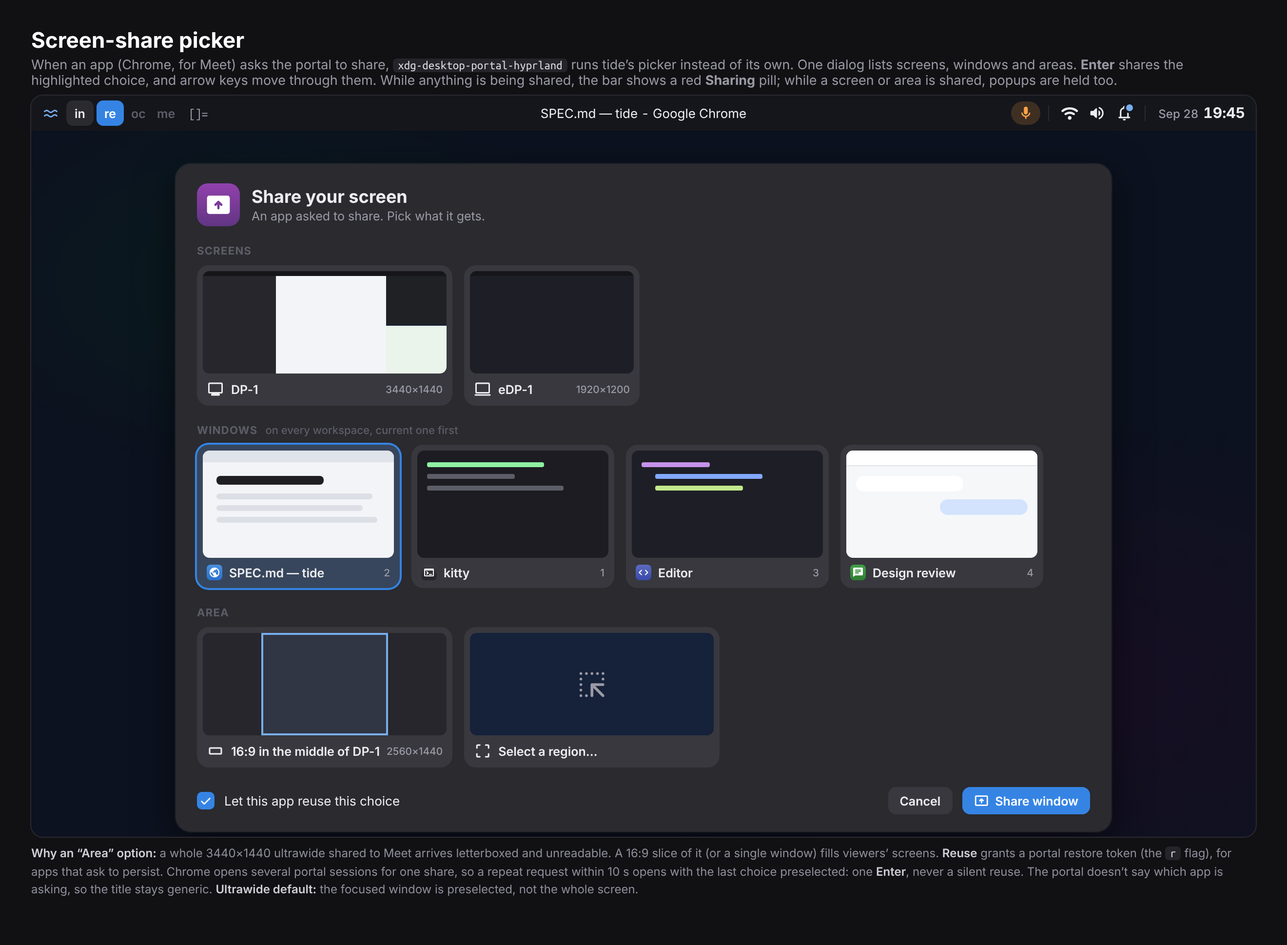
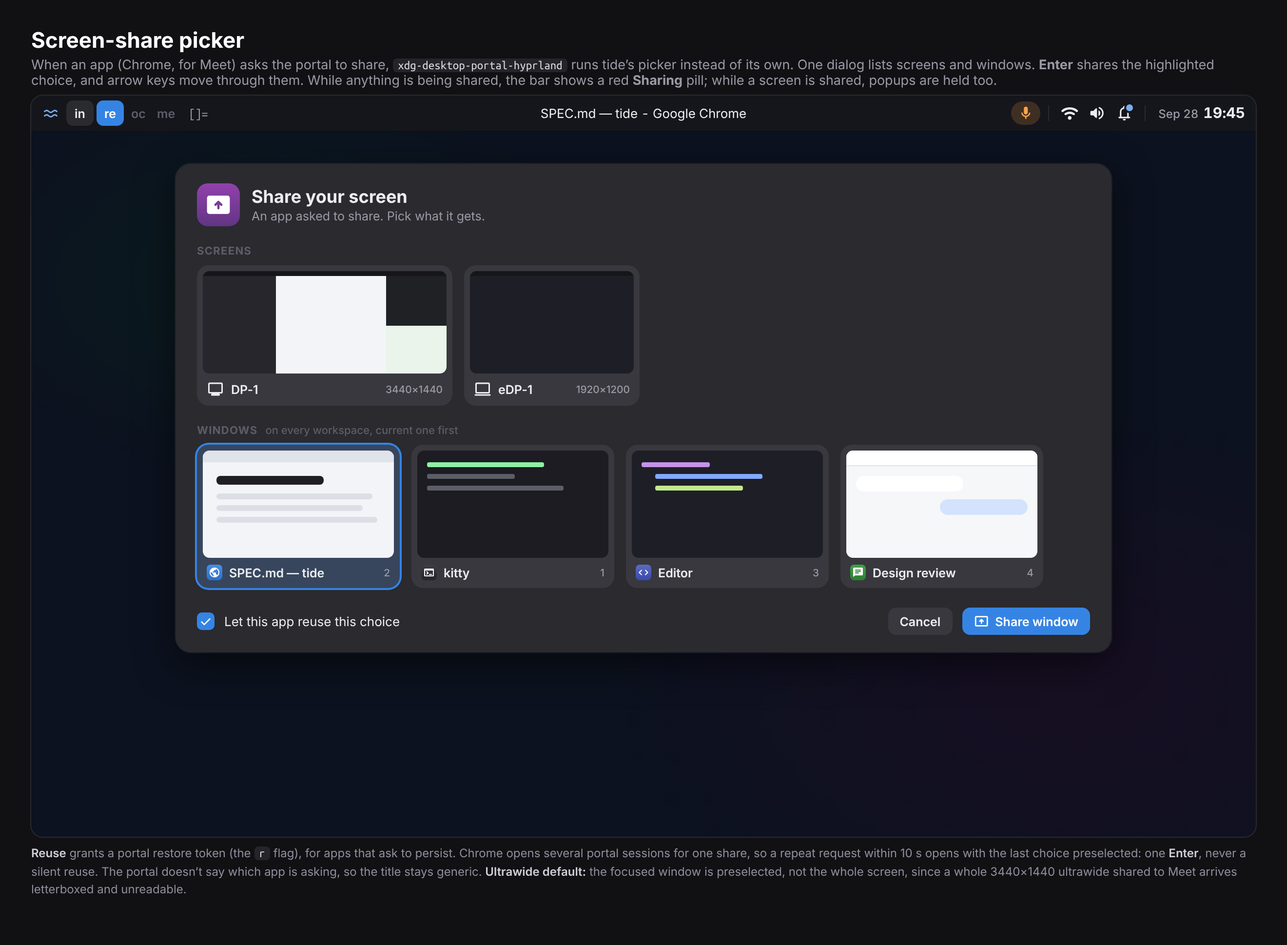
Drop the share picker's 16:9 area: share a window or a whole screen
The picker offered a 16:9 slice of each monitor wider than that, beside
its screens and windows. A window or a whole screen is all a share
needs, so the Area section goes, and with it the region answer
tide-share-picker passed on and the Sharing pill's "Area" row. On an
ultrawide the picker still opens on the focused window, since a whole
one arrives letterboxed. SPEC.md, TODO.md, docs/compositor.md and the
mock say the same.

Claude-Session: https://claude.ai/code/session_016zevajsxcL4rDwGX2uuobh

Changed region(s): [[0.0311, 0.6192, 0.9629, 0.9598], [0.0311, 0.0619, 0.9318, 0.0929]]

diff --git a/shell/SharePicker.qml b/shell/SharePicker.qml
@@ -9,9 +9,8 @@ import "lib/workspaces.mjs" as Ws
 
 // The screen-share picker (SPEC.md §12, docs/mocks/share-picker.png), for
 // `tide-share-picker`, which xdph runs when an app asks to share. It
-// offers each screen, each window xdph can share, and a 16:9 area of each
-// monitor wider than that, centered on the focused monitor over a dimmed
-// backdrop like the launcher. The arrow keys move through the options,
+// offers each screen and each window xdph can share, centered on the
+// focused monitor over a dimmed backdrop like the launcher. The arrow keys move through the options,
 // Enter or a double-click shares the highlighted one, and Escape or Cancel
 // says no. The answer goes back on the pipe the picker named.
 PanelWindow {
@@ -63,7 +62,7 @@ PanelWindow {
         const windows = Compositor.tidewm ? Picker.namedWindows(Picker.parseWindows(list), Compositor.windows) : Picker.parseWindows(list);
         const current = Compositor.tidewm ? (Compositor.tidewmListed.find(w => w?.focused === true)?.id ?? null)
             : (Hyprland.focusedMonitor?.activeWorkspace?.id ?? null);
-        const opts = Picker.options(screens, windows, workspaceOf, current, offered === "*");
+        const opts = Picker.options(screens, windows, workspaceOf, current);
         root.opts = opts;
         root.reuse = allowToken;
         root.selected = Picker.preselect(opts, {
@@ -142,7 +141,7 @@ PanelWindow {
     // `qs -c tide ipc call sharepicker pick REPLY ALLOW LIST SCREENS` opens
     // it for tide-share-picker, which waits on REPLY; SCREENS is "*" for
     // xdph's every screen, or xdg-desktop-portal-wlr's outputs, a name a
-    // line (Picker.offeredScreens), whose regions it can't share; `... cancel REPLY` closes it
+    // line (Picker.offeredScreens); `... cancel REPLY` closes it
     // with no, if REPLY is still the open request's.
     IpcHandler {
         target: "sharepicker"
@@ -289,10 +288,6 @@ PanelWindow {
                             kind: "window",
                             title: "Windows",
                             note: "on every workspace, current one first"
-                        }, {
-                            kind: "region",
-                            title: "Area",
-                            note: ""
                         }]
 
                     Column {
@@ -381,20 +376,6 @@ PanelWindow {
                                             captureSource: tile.shot
                                             live: tile.option.kind !== "window" && root.visible
                                             constraintSize: Qt.size(thumb.width, thumb.height)
-                                        }
-
-                                        // The area's outline over its monitor.
-                                        Rectangle {
-                                            readonly property real k: view.width / Math.max(1, Quickshell.screens.find(s => s.name === tile.option.screen)?.width ?? 1)
-
-                                            visible: tile.option.kind === "region" && view.hasContent && view.sourceSize.width > 0
-                                            x: view.x + (tile.option.area?.x ?? 0) * k
-                                            y: view.y + (tile.option.area?.y ?? 0) * k
-                                            width: (tile.option.area?.w ?? 0) * k
-                                            height: (tile.option.area?.h ?? 0) * k
-                                            color: "transparent"
-                                            border.width: 2
-                                            border.color: Theme.accent
                                         }
 
                                         IconImage {

diff --git a/docs/mocks/share-picker.html b/docs/mocks/share-picker.html
@@ -39,7 +39,7 @@
 <body class="sheet" data-width="1320" data-scale="2">
 
 <h1>Screen-share picker</h1>
-<p class="lede">When an app (Chrome, for Meet) asks the portal to share, <code>xdg-desktop-portal-hyprland</code> runs tide’s picker instead of its own. One dialog lists screens, windows and areas. <b>Enter</b> shares the highlighted choice, and arrow keys move through them. While anything is being shared, the bar shows a red <b>Sharing</b> pill; while a screen or area is shared, popups are held too.</p>
+<p class="lede">When an app (Chrome, for Meet) asks the portal to share, <code>xdg-desktop-portal-hyprland</code> runs tide’s picker instead of its own. One dialog lists screens and windows. <b>Enter</b> shares the highlighted choice, and arrow keys move through them. While anything is being shared, the bar shows a red <b>Sharing</b> pill; while a screen is shared, popups are held too.</p>
 
 <div class="stage theme-dark">
   <div class="bar">
@@ -130,23 +130,6 @@
       </div>
     </div>
 
-    <div class="sec">Area</div>
-    <div class="opts">
-      <div class="opt">
-        <div class="th" style="width:250px;height:105px">
-          <div class="w" style="left:0;top:0;right:0;bottom:0;background:#26262c"></div>
-          <div class="w" style="left:24%;top:0;width:52%;bottom:0;box-shadow:0 0 0 2px #78aeed inset;background:rgba(120,174,237,.12)"></div>
-        </div>
-        <div class="lb"><i class="ms">crop_16_9</i>16:9 in the middle of DP-1<small>2560×1440</small></div>
-      </div>
-      <div class="opt">
-        <div class="th" style="width:250px;height:105px;display:flex;align-items:center;justify-content:center;color:var(--fg-dim)">
-          <i class="ms" style="font-size:34px">highlight_alt</i>
-        </div>
-        <div class="lb"><i class="ms">crop_free</i>Select a region…</div>
-      </div>
-    </div>
-
     <div class="foot">
       <span class="chk"><i class="ms">check</i></span><span>Let this app reuse this choice</span>
       <span class="sp"></span>
@@ -155,7 +138,7 @@
     </div>
   </div>
 </div>
-<p class="note"><b>Why an “Area” option:</b> a whole 3440×1440 ultrawide shared to Meet arrives letterboxed and unreadable. A 16:9 slice of it (or a single window) fills viewers’ screens. <b>Reuse</b> grants a portal restore token (the <code>r</code> flag), for apps that ask to persist. Chrome opens several portal sessions for one share, so a repeat request within 10&nbsp;s opens with the last choice preselected: one <b>Enter</b>, never a silent reuse. The portal doesn’t say which app is asking, so the title stays generic. <b>Ultrawide default:</b> the focused window is preselected, not the whole screen.</p>
+<p class="note"><b>Reuse</b> grants a portal restore token (the <code>r</code> flag), for apps that ask to persist. Chrome opens several portal sessions for one share, so a repeat request within 10&nbsp;s opens with the last choice preselected: one <b>Enter</b>, never a silent reuse. The portal doesn’t say which app is asking, so the title stays generic. <b>Ultrawide default:</b> the focused window is preselected, not the whole screen, since a whole 3440×1440 ultrawide shared to Meet arrives letterboxed and unreadable.</p>
 
 </body>
 </html>

diff --git a/shell/ShareData.qml b/shell/ShareData.qml
@@ -7,8 +7,8 @@ import "lib/share.mjs" as Share
 
 // Whether a screen share is live (SPEC.md §12): an xdph screencast stream
 // with something consuming it, from PipeWire rather than Hyprland's
-// screencast>> event, which fires for any screencopy. While a screen or
-// area is shared, popups are held (§9), and the notification center counts
+// screencast>> event, which fires for any screencopy. While a screen is
+// shared, popups are held (§9), and the notification center counts
 // them; a window share, known from the share picker's choice, holds none.
 Singleton {
     id: root
@@ -46,8 +46,8 @@ Singleton {
     // Streams already there at startup have no choice to pair with.
     Component.onCompleted: root.apply(Share.nodesSeen(root.pairing, root.shareNodes, Date.now()))
 
-    // The share picker's choice: "screen", "window" or "region", and the
-    // option's label.
+    // The share picker's choice: "screen" or "window", and the option's
+    // label.
     function chose(kind, label) {
         root.apply(Share.chose(root.pairing, kind, Date.now(), label));
     }

diff --git a/SPEC.md b/SPEC.md
@@ -72,7 +72,7 @@ Contents:
 - A screensaver/idle policy, and a lock screen that is the **same screen as
   the login screen**, showing the short hostname.
 - **Google Meet screen sharing** that works in Chrome, including sharing a
-  single window or a 16:9 slice of an ultrawide.
+  single window or a whole screen.
 - Screenshots of a window, a screen or a region.
 - A session that starts **exactly one of each thing** and nothing twice.
 
@@ -128,7 +128,7 @@ mock's half-pixel size is rounded up: 12.5px is 13.
 | **Settings**: the sidebar grouped under Hardware, Windows and General, Keyboard with its shortcuts, and the newer pages: Start at login, Notifications, Clipboard, Power and Workspaces. [`settings.png`](docs/mocks/settings.png) | ![settings](docs/mocks/settings.png) |
 | **System monitor popover**: the CPU and Memory tabs, and throttling. [`sysmon.png`](docs/mocks/sysmon.png) | ![system monitor](docs/mocks/sysmon.png) |
 | **Login and lock**: greeter, lock, failure, screensaver. [`lock.png`](docs/mocks/lock.png) | ![lock](docs/mocks/lock.png) |
-| **Screen-share picker**: screens, windows, 16:9 area. [`share-picker.png`](docs/mocks/share-picker.png) | ![share picker](docs/mocks/share-picker.png) |
+| **Screen-share picker**: screens and windows. [`share-picker.png`](docs/mocks/share-picker.png) | ![share picker](docs/mocks/share-picker.png) |
 | **Picker**: `Super+V`'s Clipboard tab, and its Characters tab searched by name. [`picker.png`](docs/mocks/picker.png) | ![picker](docs/mocks/picker.png) |
 | **Screenshots**: region and window modes. [`screenshot.png`](docs/mocks/screenshot.png) | ![screenshot](docs/mocks/screenshot.png) |
 | **Minimized windows**: the five ways to show them that were weighed; C, the corner tray, was chosen (§6.7). Its bars still show the chips' old app icons. [`minimized.png`](docs/mocks/minimized.png) | ![minimized windows](docs/mocks/minimized.png) |
@@ -155,8 +155,8 @@ mock's half-pixel size is rounded up: 12.5px is 13.
   with no C++ plugin to rebuild. One Lua layout covers all four modes,
   including the one Hyprland lacks (two columns + stack), and the
   single-window width rule.
-- `xdg-desktop-portal-hyprland` shares single windows and regions, and it
-  accepts a custom picker.
+- `xdg-desktop-portal-hyprland` shares single windows and whole screens,
+  and it accepts a custom picker.
 - Its IPC reports urgency.
 - The existing config in `conf` is a head start.
 
@@ -2057,7 +2057,7 @@ See [`bar.png`](docs/mocks/bar.png).
 | Icon | Shows | Click | Scroll / other |
 |---|---|---|---|
 | **Presenting** (accent) | presenter mode is on (§10) | turns presenter mode off | hover: "Presenting: Do not disturb and keep awake", as tilemo's |
-| Privacy: **Sharing** (red) | an xdph PipeWire screencast stream has a consumer (§12) | what is being shared (screen, window or area), and the app reading it; stop it from the app | — |
+| Privacy: **Sharing** (red) | an xdph PipeWire screencast stream has a consumer (§12) | what is being shared (screen or window), and the app reading it; stop it from the app | — |
 | Privacy: mic (orange) | any app is capturing the microphone; the mic slashed while every mic being recorded from is muted (`Super+Shift+M` mutes them all), so a headset an app picked still shows live | per-app list with mute | hover: "Mic on" or "Mic off", as the OSD says, and how many apps are recording |
 | Tray items | SNI icons from apps | the app's menu (DBusMenu) | as the app defines |
 | Keyboard layout | up to three letters of the main keyboard's layout (US, DVO, GER), as tilemo's; only once there are two layouts | the next layout, as `Super+Alt+Space` (§16) | hover: the layout's full name |
@@ -2746,7 +2746,7 @@ See [`notifications.png`](docs/mocks/notifications.png).
     window has it on. That state is kept across config reloads, as Do not
     disturb is.
 - **Presenter mode** (`Super+P`, §10) holds it on along with keep awake.
-- **Automatic while sharing a screen or region:** popups are held and counted
+- **Automatic while sharing a screen:** popups are held and counted
   in the "held while you were sharing" banner.
   - A **window** share holds nothing, since popups aren't in that stream.
   - Popup surfaces also carry Hyprland's `no_screen_share` layer rule, so
@@ -3272,9 +3272,8 @@ See [`share-picker.png`](docs/mocks/share-picker.png).
   - It asks the running shell (`qs ipc`) to show the dialog, and waits on a
     pipe in `$XDG_RUNTIME_DIR` for the answer, since the IPC call returns
     first. After 5 minutes with no answer it closes the dialog and cancels.
-  - It prints one line: `[SELECTION]<flags>/screen:<output>`,
-    `…/window:<id>`, or `…/region:<output>@<x>,<y>,<w>,<h>`. No
-    `[SELECTION]` means cancel.
+  - It prints one line: `[SELECTION]<flags>/screen:<output>` or
+    `…/window:<id>`. No `[SELECTION]` means cancel.
   - With no tide shell running, as in a plain Hyprland login with the same
     `xdph.conf`, it runs xdph's own `hyprland-share-picker` if that's
     installed, so a share still works.
@@ -3289,16 +3288,12 @@ See [`share-picker.png`](docs/mocks/share-picker.png).
     and the focused one. It has no thumbnail there, which needs Hyprland's
     toplevels. It
     offers only the outputs xdpw listed, none for a request for windows
-    alone. xdpw shares no regions, so there's no 16:9 slice there, and its
-    own restore tokens stand in for the reuse box.
+    alone. xdpw's own restore tokens stand in for the reuse box.
 
   The dialog offers:
   - **Screens:** each output, with a live `ScreencopyView` thumbnail.
   - **Windows:** every window, current workspace first, each with a
     thumbnail.
-  - **Area:** a **16:9 slice** centered on each monitor wider than that, in
-    its logical pixels. For 3440×1440 at scale 1 that is
-    `region:DP-1@440,0,2560,1440`.
   - **Default on an ultrawide** (2:1 or wider): the focused window, since a
     whole 3440×1440 screen arrives letterboxed and unreadable in Meet.
     Elsewhere it's the focused monitor.
@@ -3330,8 +3325,8 @@ See [`share-picker.png`](docs/mocks/share-picker.png).
   - The **Sharing** pill is driven by PipeWire instead: an
     `xdph-streaming-*` video source with a running consumer.
   - The `screencast>>` event serves only as a prompt to re-check.
-- **Knowing what is shared.** Popups are held for a screen or region share
-  but not a window share (§9), so the shell needs the source type.
+- **Knowing what is shared.** Popups are held for a screen share but not a
+  window share (§9), so the shell needs the source type.
   - The picker's dialog is the shell's own, so the shell keeps each choice
     it shares, once `tide-share-picker` has the answer: one that never
     reached xdph has no stream.
@@ -3379,8 +3374,8 @@ See [`share-picker.png`](docs/mocks/share-picker.png).
     PipeWire, so there is nothing reliable to watch.
 - **While sharing:**
   - the bar shows the red **Sharing** pill;
-  - popups are held while a screen or region is shared, and not during a
-    window share, which can't show them (§9);
+  - popups are held while a screen is shared, and not during a window
+    share, which can't show them (§9);
   - popups, the notification center and the launcher carry
     `no_screen_share`, so if one does appear, the stream shows black there
     instead of its content;
@@ -4802,7 +4797,7 @@ light/dark switch.
 | Tray icon missing | an app started before the tray watcher | the shell (the watcher) is ordered before autostart |
 | `Super` tap misfires | the launcher opens after every `Super+<key>` on Hyprland 0.56.x | `conf` binds the tap only from Hyprland 0.57, which has the keybind fix; `Super+Space` before (§8) |
 | Dark-on-dark focus hard to see | can't tell which terminal is focused | dim strength is a setting; 0.1 is the next step |
-| Sharing an ultrawide | viewers get a letterboxed strip | the 16:9 area and window-first default in the picker |
+| Sharing an ultrawide | viewers get a letterboxed strip | the window-first default in the picker |
 | "Show in folder" opens the wrong file manager | Dolphin and Nautilus both claim `FileManager1` | a user-level activation file → a session-bound unit with a desktop-aware launcher: Nautilus in tide, Dolphin in Plasma, one session at a time; `doctor` checks (§16.2) |
 | `Terminal=true` apps open in Konsole | GLib's terminal list lacks kitty | `xdg-terminal-exec` with kitty listed first (§16.2) |
 | CLDR zone names | `GMT+1` instead of `BST` | place labels on the bar; tzdata abbreviations wherever an abbreviation shows (§7.3) |
@@ -4828,9 +4823,9 @@ are what "done" means.
 | **M1** | This spec + mocks | agreed; open questions answered |
 | **M2** | Session skeleton + layouts | `setup` installs a session selectable from the current display manager. `doctor` reports no duplicate owners. All four layouts and the single-window rule work per workspace on an ultrawide and on the laptop panel. The focus guard follows §14.1, including each case in §14.2. The Hyprland config is Lua and CI-loaded. Shell memory is measured. |
 | **M3** | Bar + launcher | the bar shows every state in `bar.png` from live data: tray menus, clocks with correct labels and popover abbreviations across a DST fixture, urgency end to end from a kitty bell and from a Chat notification. `Super+Space` opens the launcher (tap-`Super` too, from Hyprland 0.57), and fuzzy search and quick actions work. |
-| **M4** | Notifications, OSD, screenshots | notifications and history survive a shell restart. DND is automatic while sharing a screen or region, and off for a window share. The OSD works. The screen and window screenshots work, including "the window before the launcher"; the frozen region mode follows after the MVP. |
+| **M4** | Notifications, OSD, screenshots | notifications and history survive a shell restart. DND is automatic while sharing a screen, and off for a window share. The OSD works. The screen and window screenshots work, including "the window before the launcher"; the frozen region mode follows after the MVP. |
 | **M5** | Idle, lock, login | the idle timeline works, including through a Meet call. Lock via key, idle, suspend and lid. Crash recovery is tested. The greetd greeter shares the lock component. The keyring unlocks at login. The old sway, waybar, swaync, fuzzel and hyprlock configs are deleted from `conf`. |
-| **M6** | Screen sharing | a Meet share of a window, a 16:9 area and a whole screen, from Chrome; restore tokens where Chrome asks for them; the privacy pill and mic mute. |
+| **M6** | Screen sharing | a Meet share of a window and a whole screen, from Chrome; restore tokens where Chrome asks for them; the privacy pill and mic mute. |
 | **M7** | Theme + settings | one palette drives the shell, GTK 3/4, Qt and Hyprland; light/dark switches the shell, GTK and kitty live, and Qt live or at next launch as §15 says. A side-by-side screenshot of the shell, Nautilus, an adw-gtk3 app, a Qt app and Chrome, in light and in dark, looks like one desktop. The settings panel exists. |
 | **M8** | Named workspaces + switcher | Home is made at login, first on the bar, and outlives being empty; its apps open there. The standing workspaces are always listed, and made when first used. A window you open on home, and a launch from it, ask for a name, with the short name from the title patterns, and Enter, Esc and an existing name each do what §6.5 says. Empty workspaces go once left. The bar lists workspaces by name, in the order made. The switcher opens on the right tab for each key, `Tab` moves between them, and the Windows tab lists every window. `Super+Return` (go), `Super+Shift+Return` (move), `Alt+Tab`, `Super+A` and `Super+Home` work as §6.6 says. `TIDE_WORKSPACE` reaches an app through `uwsm app`, and `tide workspace` prints it. |
 | **M9** | Browser tabs | the Windows tab lists Chrome's tabs through the extension, Enter brings one up, and the tab says so when the extension is missing (§8.3). |
@@ -5104,15 +5099,12 @@ such as `centeredmaster`, scenefx, and what niri, sway and KWin can do beyond
 
 **Against dwl:**
 
-- **Single-window and region capture.** Two separate paths, checked
-  separately:
-  - **Meet sharing** of one window or a 16:9 slice (§12) goes through the
+- **Single-window capture.** Two separate paths, checked separately:
+  - **Meet sharing** of one window or a whole screen (§12) goes through the
     portal: `xdg-desktop-portal-hyprland` today, `xdg-desktop-portal-wlr` on
     a fork. xdg-desktop-portal-wlr has shared single windows since 0.8.0,
     through `ext-image-copy-capture`, and takes an external chooser command.
-    It shares only monitors and windows, though, never a region, so the
-    16:9 slice would have to be built, for example as a virtual 16:9 output
-    mirroring part of the ultrawide.
+    It shares monitors and windows, which is all §12 needs.
   - **`grim -T` window screenshots** (§13) don't use the portal. grim asks the
     compositor directly, through its toplevel list and the
     `ext-image-copy-capture` protocols, so the fork itself must expose them.
@@ -5147,13 +5139,13 @@ local observation.
 **Next steps, if pursued,** before rewriting §3.1. The first three use the
 sources, then a test session on wlroots 0.19/0.20:
 
-1. Check that xdg-desktop-portal-wlr shares a single window and a region in
-   Chrome, through §12's own `tide-share-picker` rather than the
+1. Check that xdg-desktop-portal-wlr shares a single window and a whole
+   screen in Chrome, through §12's own `tide-share-picker` rather than the
    portal's chooser. The picker reads xdph's `XDPH_OUTPUT_SHARING_LIST` and
    `XDPH_WINDOW_SHARING_LIST` and answers in xdph's `[SELECTION]` format, so it
    needs an adapter for xdpw. Run all of §12's flows end to end: the focused
-   window as the default, the 16:9 slice, preselecting the last choice, and
-   the restore flag.
+   window as the default, preselecting the last choice, and the restore
+   flag.
 2. Check that a dwl build exposing the toplevel and `ext-image-copy-capture`
    protocols takes `grim -T` screenshots of the focused window, found through
    the fork's IPC, which is §13's whole Alt+Print flow.
@@ -5190,18 +5182,6 @@ untested.
   must publish it for every window. xdpw waits for the chooser in its only
   loop, so a share already live may stall while the dialog is open
   (inferred, untested).
-- **16:9 slice: missing.** xdpw shares a whole output or a window, nothing
-  smaller, and `ext-image-capture-source-v1` defines only output and
-  toplevel sources. A slice needs one of three things, all untried:
-  - a virtual output covering the slice, which every client sees and the bar
-    and the fork's monitors must skip;
-  - a pseudo-window over the slice, which the fork captures through
-    wlroots 0.20's scene-node source and lists as a window;
-  - an xdpw patch that sends a `Region:` answer through wlr-screencopy's
-    region capture, which dwl offers: a second fork to keep.
-
-  The first two can also change which output wlroots counts a window in the
-  slice as being on, for its frame timing and preferred scale.
 - **Restore flag: missing.** xdpw grants a restore token only from its own
   `XDPW_PERSIST_MODE` environment variable, for every app at once, and
   writes restore data only for monitors, so a window share never gets one.
@@ -5212,12 +5192,11 @@ untested.
   source, both of which dwl 0.9 offers. dwl's only IPC, its status lines,
   doesn't print the identifier, so the fork adds it.
 
-So the deciding question splits. Window sharing and window screenshots work
-on dwl 0.9 as it stands. The 16:9 slice and the restore flag each need code
-of our own, in the fork or in a patched xdpw.
+So the deciding question passes. Window sharing and window screenshots work
+on dwl 0.9 as it stands. Only the restore flag needs code of our own, in a
+patched xdpw.
 
-**Decided** (2026-11-02): a window share is enough for Meet, so a fork drops
-the 16:9 slice, and the deciding question passes for dwl. Until xdpw asks
+**Decided** (2026-11-02): a window share is enough for Meet. Until xdpw asks
 per share, every share prompts, since the restore flag has nothing to set.
 
 **Step 3, Debian** (checked 2026-11-03, under Sources):
@@ -5355,7 +5334,7 @@ makes every policy decision. It waits until river exposes what tide needs
   River has to report every key and button press in its sequence, without
   consuming them, or this waits too.
 - **Capture exclusion.** §12 shows the launcher and notifications black to
-  the far end of a screen or region share, while they stay visible on your
+  the far end of a screen share, while they stay visible on your
   own screen. Hyprland does that with `no_screen_share`. river 0.4.8 has no
   way to mark a surface for that: `river-layer-shell-v1` sets focus,
   exclusive area and the default output, and the window-management
@@ -5363,9 +5342,7 @@ makes every policy decision. It waits until river exposes what tide needs
   black something out of what it hands the portal, so river has to add it,
   or this waits too.
 - **Capture checks.** `grim -T`, screen and region screenshots, and window and
-  monitor sharing through xdg-desktop-portal-wlr, including §12's 16:9 slice,
-  which xdg-desktop-portal-wlr doesn't offer and would have to be built.
-  `tide-share-picker` needs an adapter, as in §21.1: xdg-desktop-portal-wlr
+  monitor sharing through xdg-desktop-portal-wlr. `tide-share-picker` needs an adapter, as in §21.1: xdg-desktop-portal-wlr
   0.8.4's chooser gets no list of windows and outputs, and takes only
   `Monitor: <name>` or `Window: <identifier>` back, while the picker reads
   xdph's lists and answers `[SELECTION]`. Without it, every choice reads as

diff --git a/docs/compositor.md b/docs/compositor.md
@@ -34,7 +34,7 @@ Most rows are small. These four are not, and decide the size of a port:
    workspace a window is on, so standard ones alone can't drive the bar.
 4. **Capture** (§12, §13): window sharing and `grim -T` window
    screenshots. §21.1 called this the deciding question. dwl 0.9 passes it
-   for windows, and a fork drops the 16:9 slice (decided 2026-11-02).
+   for windows (decided 2026-11-02).
 
 ## Session (§5, §11)
 
@@ -90,7 +90,7 @@ Most rows are small. These four are not, and decide the size of a port:
 
 | Requirement | Today | Fork | Check |
 |---|---|---|---|
-| §12: share a window or a monitor in Meet, through tide's picker with live thumbnails; on Hyprland, a 16:9 region too | xdg-desktop-portal-hyprland with `tide-share-picker`; `tide-portals.conf` names `hyprland;gtk`; Quickshell's `ScreencopyView` | xdg-desktop-portal-wlr plus an adapter (its `dmenu` chooser), and no region: a fork drops the 16:9 slice; `wlr;gtk` in the portals config. xdpw 0.8.5 takes persistence only from the process-wide `XDPW_PERSIST_MODE` and restores only monitors, so the picker's "reuse the choice" checkbox needs xdpw patched or replaced. The portal costs nothing, but if it's missing Meet's share fails with no picker, so `setup` installs it and doctor checks it | §21.1 step 1; the picker shows live outputs; ticking "reuse the choice" restores a window share and a monitor share, and leaving it unticked restores neither; a file chooser and OpenURI still work through GTK |
+| §12: share a window or a monitor in Meet, through tide's picker with live thumbnails | xdg-desktop-portal-hyprland with `tide-share-picker`; `tide-portals.conf` names `hyprland;gtk`; Quickshell's `ScreencopyView` | xdg-desktop-portal-wlr plus an adapter (its `dmenu` chooser); `wlr;gtk` in the portals config. xdpw 0.8.5 takes persistence only from the process-wide `XDPW_PERSIST_MODE` and restores only monitors, so the picker's "reuse the choice" checkbox needs xdpw patched or replaced. The portal costs nothing, but if it's missing Meet's share fails with no picker, so `setup` installs it and doctor checks it | §21.1 step 1; the picker shows live outputs; ticking "reuse the choice" restores a window share and a monitor share, and leaving it unticked restores neither; a file chooser and OpenURI still work through GTK |
 | §12, §9: the Sharing pill shows during a share and not for a screenshot; popups are held for a screen or region share but not a window share | `ShareData.qml` watches PipeWire's `xdph-streaming-*` nodes and pairs each new one with the picker's recorded choice; the `screencast` event, not read yet, is kept as a prompt to re-check | The detector taught xdg-desktop-portal-wlr's `xdpw-stream-*` names (0.8.4's `pipewire_screencast.c`), paired with the picker's choice the same way, and a capture-started event if the fork has one | The pill shows for a Meet share and not for a `grim` shot; a window share holds no popups, and a screen or region share does |
 | §12: the notifications and the launcher show black to the far end of a share | `no_screen_share` on `tide-notifications`, `tide-launcher` and `tide-share-picker`, in `conf`'s `hyprland.lua` | Both namespaces excluded from capture | A popup, the center or the launcher during a share shows black to the far end |
 | §13: window, screen and region screenshots; `Alt+Print` captures the focused window, falling back to its geometry if `grim -T` fails | ext-foreign-toplevel-list and ext-image-copy-capture; wlr-screencopy; `hyprctl activewindow -j` (`stableId`, `at`, `size`) | wlroots has the protocols, and dwl must expose them (§21.1 step 2); a focused-window query giving the identifier and geometry | Each screenshot captures; with `grim -T` made to fail, `Alt+Print` falls back to `grim -g` |

diff --git a/TODO.md b/TODO.md
@@ -1643,11 +1643,10 @@ thumbnails and xdph itself are unchecked. Still to do:
   which falls back to xdph's picker where tide isn't installed, and keeps
   the `tide-share-picker` layer out of screen shares
   (mikelward/conf#415). xdph reads it as it starts.
-- On a real session, share from Meet in Chrome: a window, the 16:9 area of
-  an ultrawide and a whole screen, then a second request within 10 s,
+- On a real session, share from Meet in Chrome: a window and a whole
+  screen, then a second request within 10 s,
   which should open on the first choice. Count the prompts one share
   makes, and check whether Chrome asks for a restore token.
-- Drag to choose an area, the mock's "Select a region…".
 
 ## The rest of `tide doctor`
 
@@ -1924,7 +1923,7 @@ alternative. The fork's code goes in
 history; tide's changes go on top of v0.9 there. Before rewriting §3.1 around it, work through §21.1's next steps:
 
 - Screen sharing through `tide-share-picker` on xdg-desktop-portal-wlr,
-  with an adapter, including a way to share the 16:9 slice.
+  with an adapter.
 - `grim -T` on a dwl build that exposes the toplevel-capture protocols.
 - Re-check Debian 13's toolchain.
 - Inventory everything the spec needs from the compositor, with the fork's
@@ -1956,10 +1955,9 @@ there once that's in. Next, in order:
    `GET_BINDINGS`.
 2. The rest: the greeter's
    displays off, should the greeter move to tidewm (it runs Hyprland);
-   the share picker's windows' thumbnails; and the focus
-   guard's evals. Its 16:9 slice, which xdg-desktop-portal-wlr can't share
-   (a virtual output mirroring the middle of the monitor would), is
-   skipped there (2026-11-06).
+   and the focus guard's evals. Sharing a window or a whole screen is all
+   the share picker needs there (maintainer, 2026-11-06), so its windows
+   need no thumbnails.
 
 If the fork is adopted, machines build a pinned release tag, never a branch:
 
